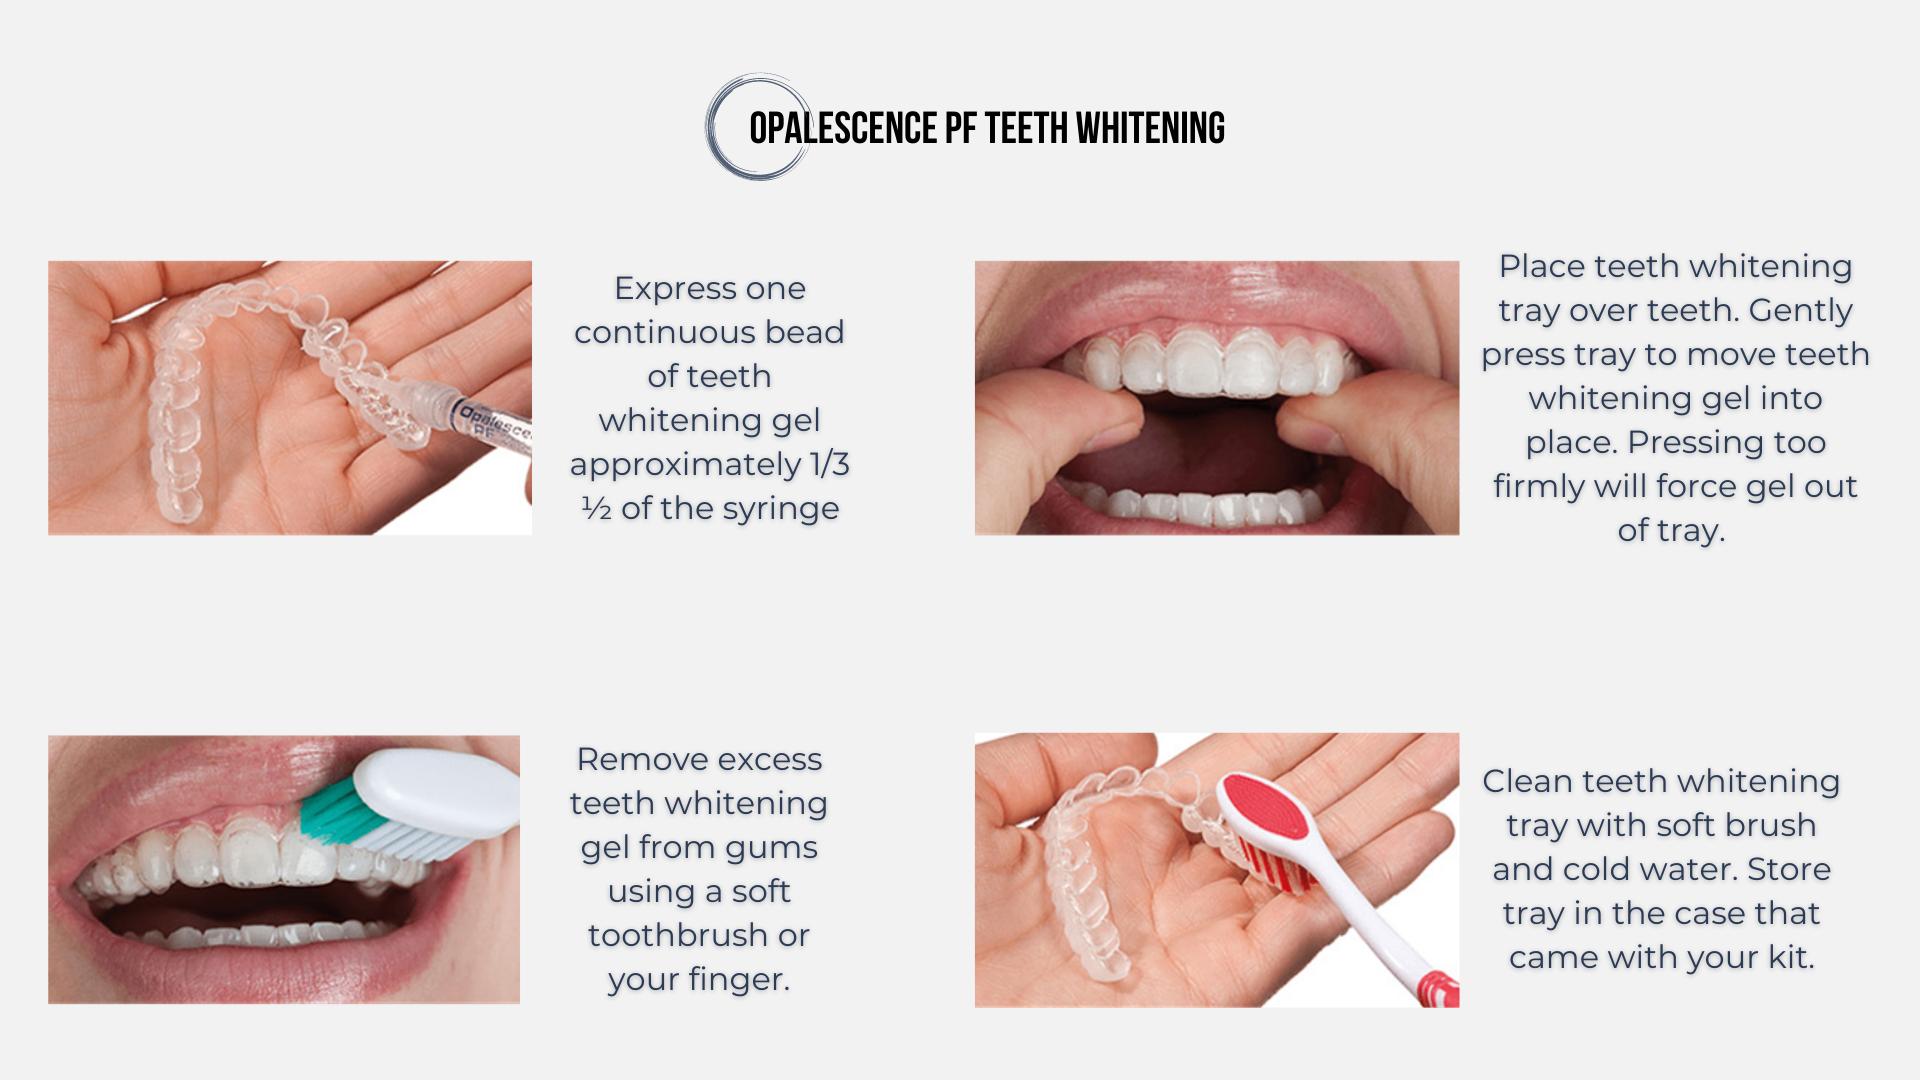
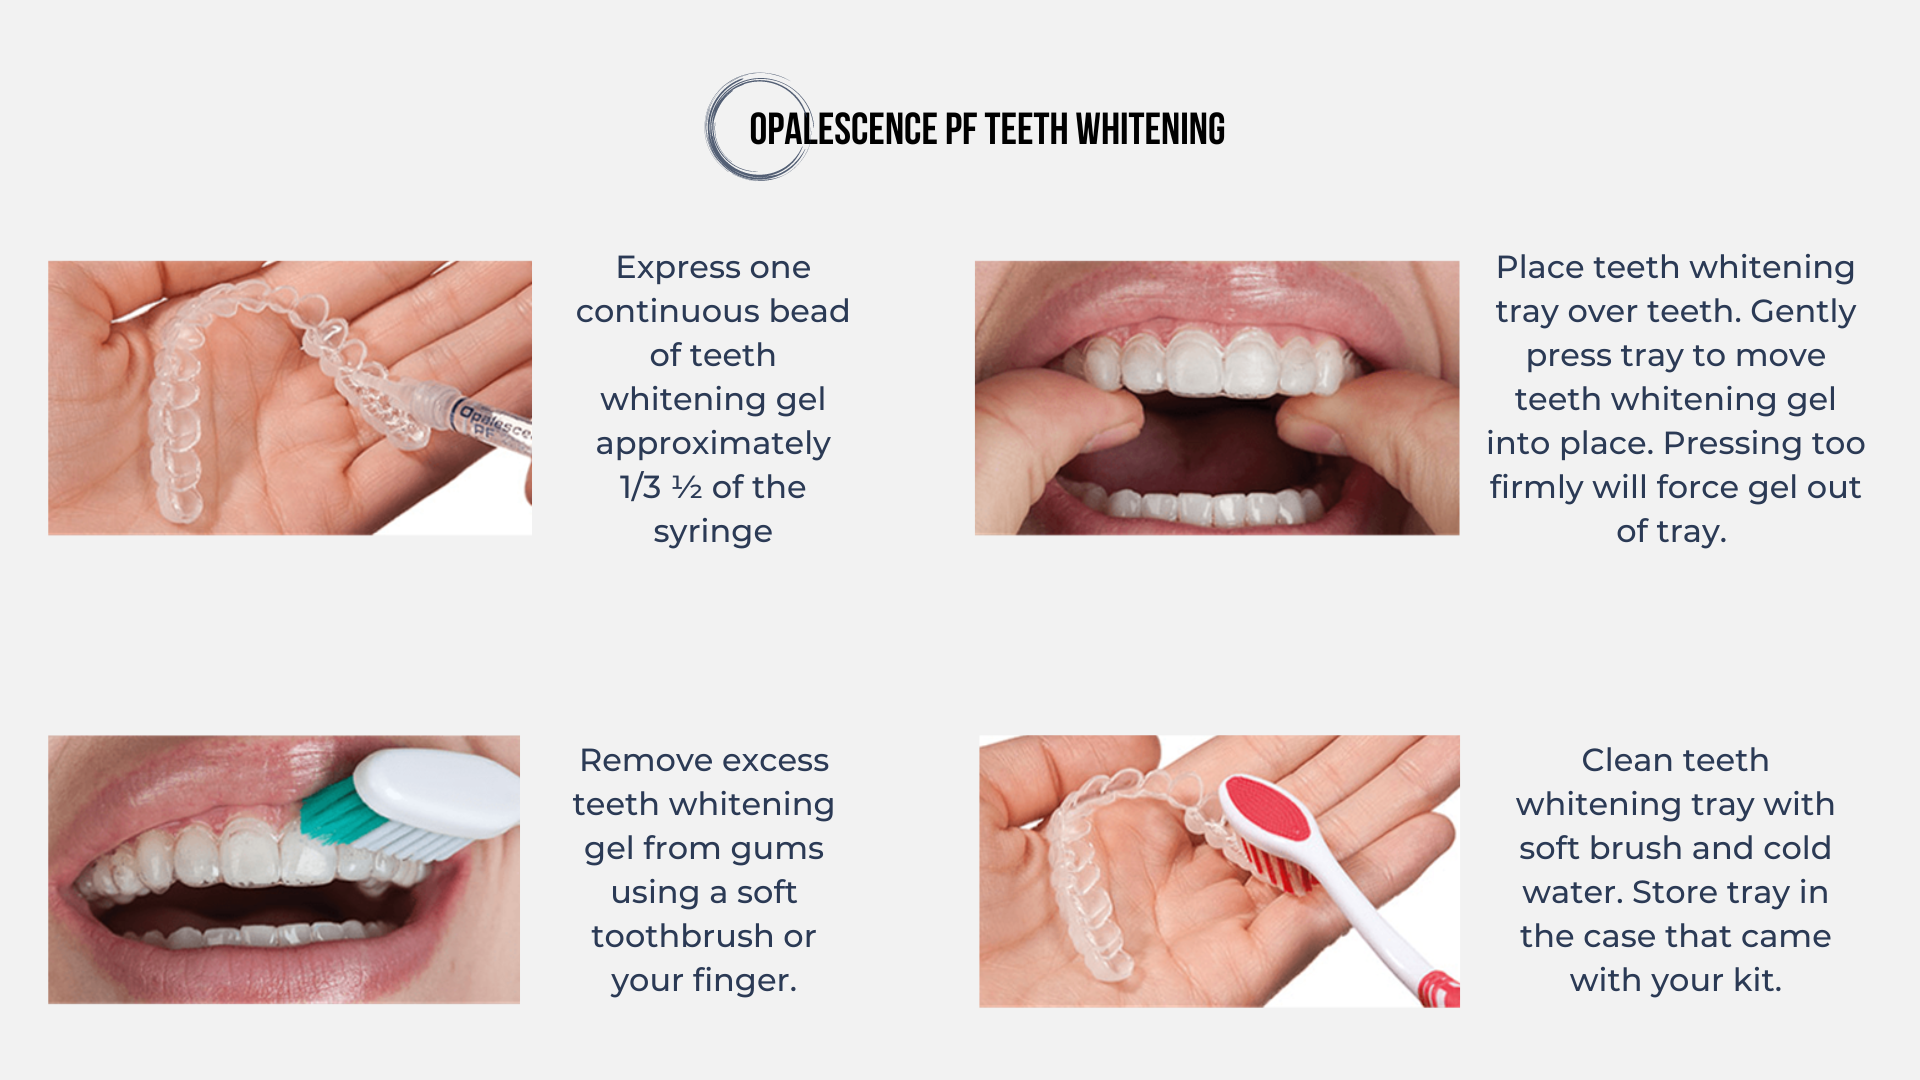
change the download button colour and  font style

diff --git a/ret_sp_bleach.css b/ret_sp_bleach.css
@@ -3,6 +3,7 @@ body {
   display: flex;
   flex-direction: column;
   justify-content: center;
+  font-family: 'Montserrat';
 }
 
 /* Scrollbar */
@@ -116,14 +117,14 @@ width: 5%;
     margin-left: auto;
     margin-right: auto;
     margin-bottom: 2%;
-    font-family: 'Roboto Flex', sans-serif;
     font-weight: 500;
 }
 .download p {
     text-align: center;
     font-size: medium;
     border-radius: 6px;
-    background-color: #F9C041;
+    background-color: #cccccc;
+    color: #2b3a55;
     padding: 2%;
 }
 .instructions a:link {

diff --git a/deadlines.html b/deadlines.html
@@ -10,7 +10,7 @@
     <link rel="stylesheet" href="weborder.css">
     <link rel="preconnect" href="https://fonts.googleapis.com">
     <link rel="preconnect" href="https://fonts.gstatic.com" crossorigin>
-    <link href="https://fonts.googleapis.com/css2?family=Roboto+Flex:opsz,wght@8..144,300;8..144,400;8..144,500&display=swap" rel="stylesheet">
+    <link href="https://fonts.googleapis.com/css2?family=Montserrat:wght@100;400;900&family=Ubuntu:wght@300;400;700&display=swap" rel="stylesheet">
 </head>
 
 <!-- Nav bar -->

diff --git a/implant.html b/implant.html
@@ -10,7 +10,7 @@
     <link rel="stylesheet" href="weborder.css">
     <link rel="preconnect" href="https://fonts.googleapis.com">
     <link rel="preconnect" href="https://fonts.gstatic.com" crossorigin>
-    <link href="https://fonts.googleapis.com/css2?family=Roboto+Flex:opsz,wght@8..144,300;8..144,400;8..144,500&display=swap" rel="stylesheet">
+    <link href="https://fonts.googleapis.com/css2?family=Montserrat:wght@100;400;900&family=Ubuntu:wght@300;400;700&display=swap" rel="stylesheet">
 </head>
 
 <!-- Nav bar -->

diff --git a/prices.html b/prices.html
@@ -11,7 +11,7 @@
     <link rel="stylesheet" href="weborder.css">
     <link rel="preconnect" href="https://fonts.googleapis.com">
     <link rel="preconnect" href="https://fonts.gstatic.com" crossorigin>
-    <link href="https://fonts.googleapis.com/css2?family=Roboto+Flex:opsz,wght@8..144,300;8..144,400;8..144,500&display=swap" rel="stylesheet">
+    <link href="https://fonts.googleapis.com/css2?family=Montserrat:wght@100;400;900&family=Ubuntu:wght@300;400;700&display=swap" rel="stylesheet">
 </head>
 
 <!-- Nav bar -->

diff --git a/scanning.html b/scanning.html
@@ -10,7 +10,7 @@
     <link rel="stylesheet" href="weborder.css">
     <link rel="preconnect" href="https://fonts.googleapis.com">
     <link rel="preconnect" href="https://fonts.gstatic.com" crossorigin>
-    <link href="https://fonts.googleapis.com/css2?family=Roboto+Flex:opsz,wght@8..144,300;8..144,400;8..144,500&display=swap" rel="stylesheet">
+    <link href="https://fonts.googleapis.com/css2?family=Montserrat:wght@100;400;900&family=Ubuntu:wght@300;400;700&display=swap" rel="stylesheet">
 </head>
 
 <!-- Nav bar -->

diff --git a/bleaching.html b/bleaching.html
@@ -10,7 +10,7 @@
     <link rel="stylesheet" href="ret_sp_bleach.css">
     <link rel="preconnect" href="https://fonts.googleapis.com">
     <link rel="preconnect" href="https://fonts.gstatic.com" crossorigin>
-    <link href="https://fonts.googleapis.com/css2?family=Roboto+Flex:opsz,wght@8..144,300;8..144,400;8..144,500&display=swap" rel="stylesheet">
+    <link href="https://fonts.googleapis.com/css2?family=Montserrat:wght@100;400;900&family=Ubuntu:wght@300;400;700&display=swap" rel="stylesheet">
 </head>
 
 <header>

diff --git a/mouthguard.html b/mouthguard.html
@@ -10,7 +10,7 @@
     <link rel="stylesheet" href="ret_sp_bleach.css">
     <link rel="preconnect" href="https://fonts.googleapis.com">
     <link rel="preconnect" href="https://fonts.gstatic.com" crossorigin>
-    <link href="https://fonts.googleapis.com/css2?family=Roboto+Flex:opsz,wght@8..144,300;8..144,400;8..144,500&display=swap" rel="stylesheet">
+    <link href="https://fonts.googleapis.com/css2?family=Montserrat:wght@100;400;900&family=Ubuntu:wght@300;400;700&display=swap" rel="stylesheet">
 </head>
 
 <header>

diff --git a/retainer.html b/retainer.html
@@ -10,7 +10,7 @@
     <link rel="stylesheet" href="ret_sp_bleach.css">
     <link rel="preconnect" href="https://fonts.googleapis.com">
     <link rel="preconnect" href="https://fonts.gstatic.com" crossorigin>
-    <link href="https://fonts.googleapis.com/css2?family=Roboto+Flex:opsz,wght@8..144,300;8..144,400;8..144,500&display=swap" rel="stylesheet">
+    <link href="https://fonts.googleapis.com/css2?family=Montserrat:wght@100;400;900&family=Ubuntu:wght@300;400;700&display=swap" rel="stylesheet">
 </head>
 
 <header>

diff --git a/splint.html b/splint.html
@@ -10,7 +10,7 @@
     <link rel="stylesheet" href="ret_sp_bleach.css">
     <link rel="preconnect" href="https://fonts.googleapis.com">
     <link rel="preconnect" href="https://fonts.gstatic.com" crossorigin>
-    <link href="https://fonts.googleapis.com/css2?family=Roboto+Flex:opsz,wght@8..144,300;8..144,400;8..144,500&display=swap" rel="stylesheet">
+    <link href="https://fonts.googleapis.com/css2?family=Montserrat:wght@100;400;900&family=Ubuntu:wght@300;400;700&display=swap" rel="stylesheet">
 </head>
 
 

diff --git a/photo.html b/photo.html
@@ -10,7 +10,7 @@
     <link rel="stylesheet" href="weborder.css">
     <link rel="preconnect" href="https://fonts.googleapis.com">
     <link rel="preconnect" href="https://fonts.gstatic.com" crossorigin>
-    <link href="https://fonts.googleapis.com/css2?family=Roboto+Flex:opsz,wght@8..144,300;8..144,400;8..144,500&display=swap" rel="stylesheet">
+    <link href="https://fonts.googleapis.com/css2?family=Montserrat:wght@100;400;900&family=Ubuntu:wght@300;400;700&display=swap" rel="stylesheet">
 </head>
 
 

diff --git a/weborder.css b/weborder.css
@@ -5,6 +5,7 @@ body {
     justify-content: center;
     margin: 0;
     padding: 0;
+    font-family: 'Montserrat';
 }
 
 
